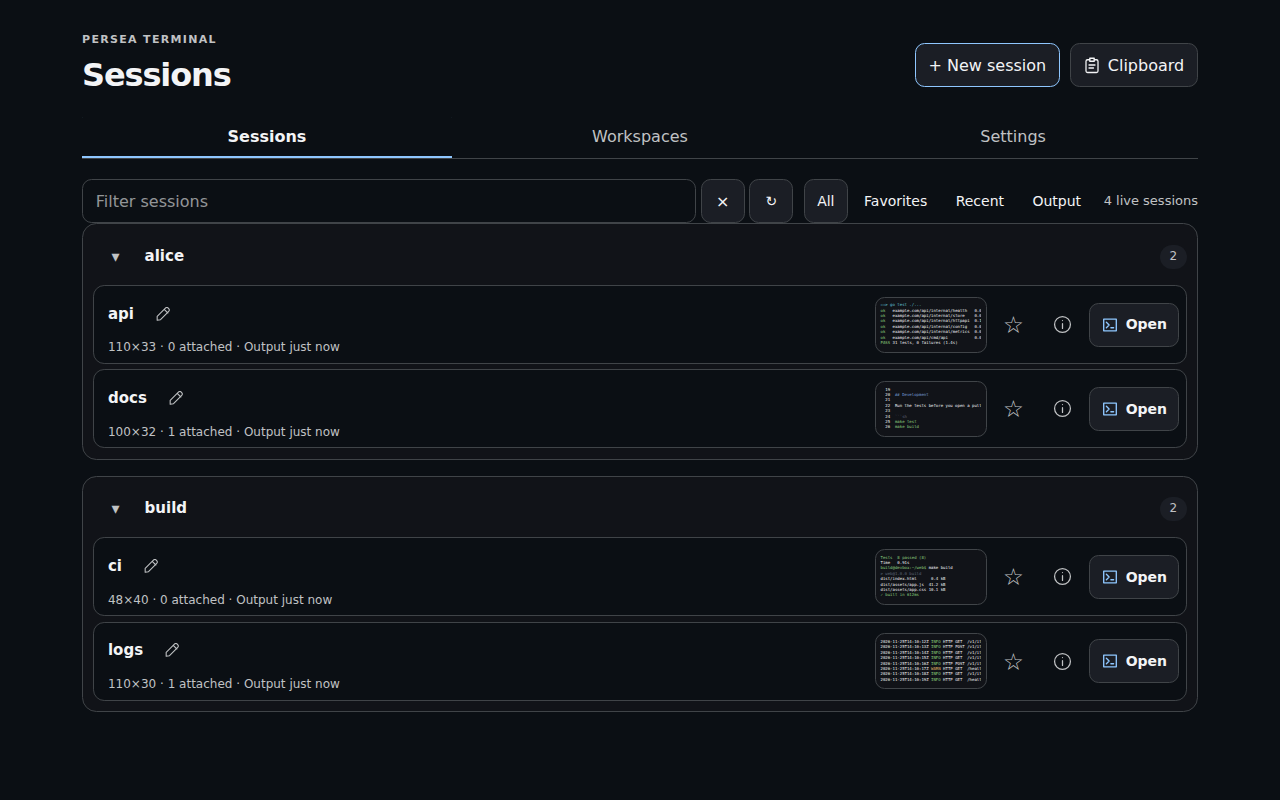
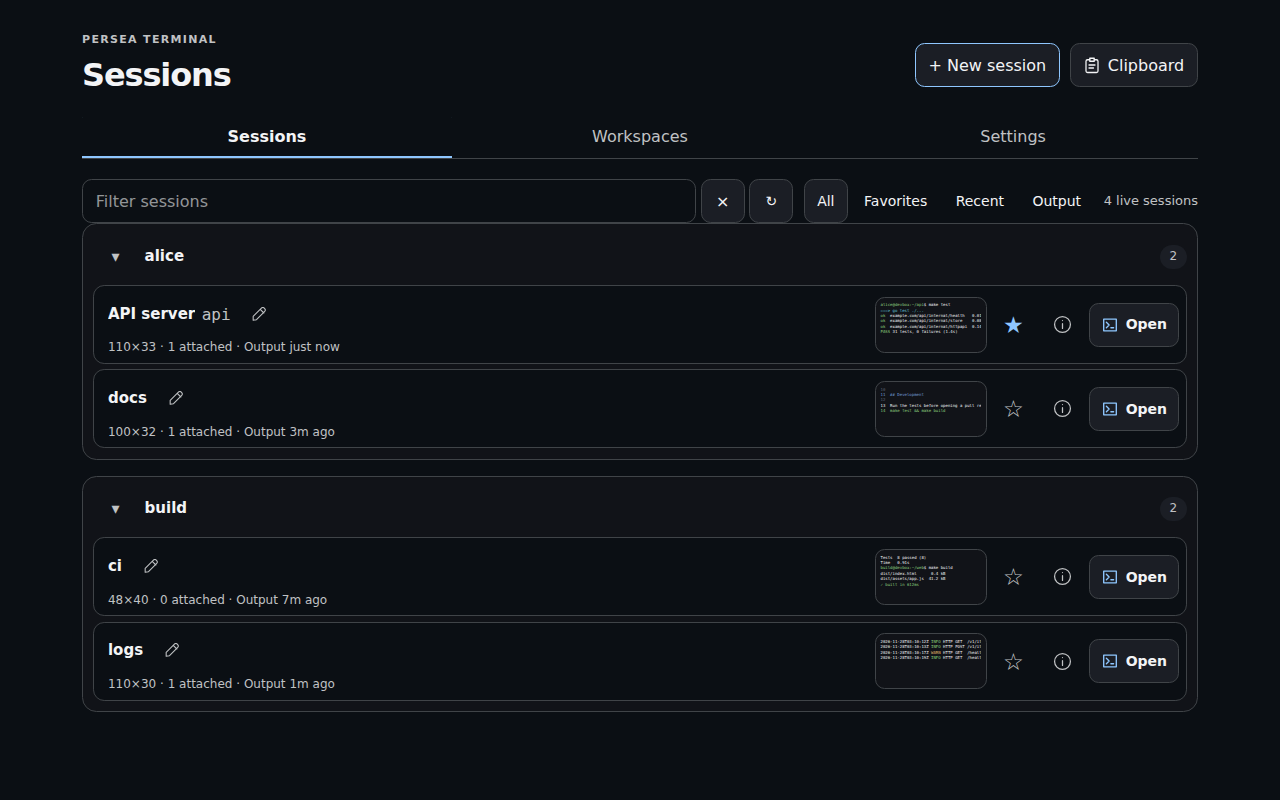
Refresh documentation, architecture diagram, and screenshots

diff --git a/README.md b/README.md
@@ -6,23 +6,39 @@ Run Persea Terminal on your Linux devbox and reach your shells, editors, builds,
 and coding agents from a laptop, tablet, or phone. Your work stays on the devbox
 when you close the browser or lose your connection.
 
-- **Keep sessions together.** Open multiple terminals in one workspace.
-- **Pick up where you left off.** Reconnect restores retained output; uncertain input is never replayed.
-- **Use your existing workflow.** Native tmux clients can stay attached. Opening a browser does not resize your session.
-- **Work from a phone.** Touch controls, a text composer, and a terminal key row keep common actions close.
+- **Keep sessions together.** Arrange up to six terminals in saved multi-pane [workspaces](ui/workspaces.md) with starter layout presets, visual editing, pane maximize, and quick switching.
+- **Pick up where you left off.** Reconnect restores retained output over compressed incremental catch-up; uncertain input is never replayed.
+- **Use your existing workflow.** Native tmux clients can stay attached. Opening a browser or adjusting workspace panes never resizes your session; geometry refits happen only on explicit request.
+- **Share text and images across devices.** A built-in [shared clipboard](ui/clipboard.md) supports direct device paste, expiring text and image clips, OSC 52 copies, and composer image staging (`Cmd/Ctrl+V` or drag and drop).
+- **Work from a phone.** Touch controls, a text composer with image attachments, a customizable [terminal key bar](ui/KEYBOARD_CONTROLS.md), and eight themes keep common actions close.
 
 <img src="docs/images/workspace-desktop.png" alt="A workspace with three terminals side by side: a shell, a log tail, and an editor" width="100%">
 
 <table>
   <tr>
-    <td width="62%"><img src="docs/images/dashboard-desktop.png" alt="The dashboard listing tmux sessions for two Unix users, alice and build, with output previews and Open buttons"></td>
-    <td width="38%"><img src="docs/images/terminal-phone.png" alt="A tmux session on a phone, with the text composer open below the terminal"></td>
+    <td width="62%"><img src="docs/images/dashboard-desktop.png" alt="The dashboard listing tmux sessions for two Unix users, alice and build, with favorites, aliases, ANSI output previews, and Open buttons"></td>
+    <td width="38%"><img src="docs/images/terminal-phone.png" alt="A tmux session on a phone with the text composer, image-attachment button, and terminal key toggle open below the terminal"></td>
   </tr>
   <tr>
     <td align="center">Sessions for each configured Unix user</td>
     <td align="center">The same sessions from a phone</td>
   </tr>
 </table>
+
+<details>
+<summary>More views: saved Workspaces and shared Clipboard</summary>
+<br>
+<table>
+  <tr>
+    <td width="50%"><img src="docs/images/workspaces-dashboard.png" alt="The Workspaces tab showing saved multi-pane workspaces with miniature layout diagrams and the multi-session builder"></td>
+    <td width="50%"><img src="docs/images/clipboard-desktop.png" alt="The shared Clipboard dialog over a live terminal, showing direct device paste and shared image and text items with countdowns"></td>
+  </tr>
+  <tr>
+    <td align="center">Saved workspaces and layout builder</td>
+    <td align="center">Shared cross-device text and image clipboard</td>
+  </tr>
+</table>
+</details>
 
 ## How it works
 
@@ -35,46 +51,45 @@ flowchart LR
             phone["Phone browser"]
         end
 
-        subgraph devbox["Linux devbox"]
-            serve["Tailscale Service"]
-            terminal["Persea Terminal<br/>web service"]
-            serve <--> terminal
+        subgraph devbox["Linux devbox · no TCP listener"]
+            sidecar["Tailscale Service sidecar"]
+            front["Persea Terminal front door"]
+            sidecar <-->|AF_UNIX, SO_PEERCRED| front
 
             subgraph alice["Unix user: alice"]
-                brokerA["Broker"]
+                brokerA["Realm broker"]
                 tmuxA["tmux sessions"]
-                brokerA <--> tmuxA
+                brokerA <-->|tmux control mode, journal| tmuxA
             end
-            subgraph bob["Unix user: bob"]
-                brokerB["Broker"]
+
+            subgraph build["Unix user: build"]
+                brokerB["Realm broker"]
                 tmuxB["tmux sessions"]
-                brokerB <--> tmuxB
+                brokerB <-->|tmux control mode, journal| tmuxB
             end
-            terminal <--> brokerA
-            terminal <--> brokerB
+
+            front <-->|AF_UNIX| brokerA
+            front <-->|AF_UNIX| brokerB
         end
 
-        devices <-->|HTTPS<br/>tailnet policy| serve
+        devices <-->|HTTPS, tailnet policy| sidecar
     end
 ```
 
 Connect your devices to Tailscale and open the terminal's Service URL.
 [Tailnet access rules](https://tailscale.com/kb/1552/tailscale-services) determine
-which devices can reach it; Persea Terminal also checks the configured Tailscale
-login. The deployment runs a dedicated Tailscale identity on the devbox and
-forwards requests to Persea Terminal over a local Unix socket.
+which devices can reach it; Persea Terminal also verifies the configured Tailscale
+login. The deployment runs a dedicated `tailscaled` Service sidecar on the devbox
+and forwards requests to the front door over a local Unix socket (`SO_PEERCRED`),
+with no TCP listener. Each configured Linux user account (called a *realm*) runs
+its own isolated broker under that user's Unix UID and communicates with explicitly
+configured tmux servers over tmux control mode (`-C`) and a typed per-session journal.
 
 **Access is private and single-operator:** one configured person can access all
-configured Linux user accounts (called *realms*). Only explicitly configured tmux
-servers are available. See the [security model](SECURITY.md).
-
-Hidden attachment copies restored after a reboot are removed when the broker
-first sees them. Copies restored later are removed during inventory. A living
-broker's attachment remains protected even while that broker is suspended.
-Internal attachments are omitted from inventory. Large session lists are bounded
-by both session count and reply size, with incomplete lists marked as such.
-An open page keeps trying when its server is unavailable or its session list is
-incomplete; after fast retries, it checks more slowly while the page is visible.
+configured realms. Only explicitly configured tmux servers are available. See the
+[security model](SECURITY.md), the [deployment guide](deploy/README.md), and
+[terminal reconstruction](docs/terminal-reconstruction.md) for isolation,
+lifecycle, and capture details.
 
 ## Get started
 
@@ -103,7 +118,7 @@ agent to work through it with you:
    through your tailnet policy. Persea Terminal also checks your configured login.
 4. **Open your terminals.** Visit the Service's HTTPS URL from an allowed device.
    In the dashboard, choose a configured Unix user and open an existing tmux
-   session or create a new one.
+   session, create a new one, or open a saved workspace.
 
 Keep your host manifest and credentials outside the repository.
 
@@ -127,6 +142,12 @@ The launcher installs dependencies, builds the application, and prints a local
 `URL=` to open. It creates an isolated tmux session for the demo. Use the printed
 `STOP_COMMAND=` when finished; `TMUX_ATTACH=` lets you return to that session.
 This demo is local to the devbox; follow Quick Start above for other devices.
+
+## Documentation
+
+- **User interface:** [Dashboard and session discovery](ui/dashboard.md) · [Workspaces](ui/workspaces.md) · [Shared clipboard](ui/clipboard.md) · [Scrollback](ui/scrollback.md) · [Keyboard controls](ui/KEYBOARD_CONTROLS.md)
+- **Operations and security:** [Deployment guide](deploy/README.md) · [Security model](SECURITY.md)
+- **Internals and protocols:** [Terminal reconstruction](docs/terminal-reconstruction.md) · [Attachment wire protocol](internal/attachmentwire/README.md) · [Clipboard storage and API](internal/frontdoor/clipboard.md)
 
 ## Help and contributing
 

diff --git a/ui/workspaces.md b/ui/workspaces.md
@@ -1,0 +1,116 @@
+# Workspaces
+
+Workspaces group up to six tmux sessions into a single desktop browser tab using
+nested row and column splits. Saved workspaces persist on the front door and are
+available across an operator's desktop browsers.
+
+![A three-pane workspace showing a shell, a log tail, and documentation side by side](../docs/images/workspace-desktop.png)
+
+## Saved model and storage
+
+A saved workspace stores only its display name and a recursive split tree whose
+leaves name sessions by selector (`realm`, `server`, `name`), an optional
+`alias_hint`, and an `on_missing` policy (`offer`, `create`, or `skip`). It
+never stores capability handles, tmux session IDs, incarnation keys, or terminal
+geometry.
+
+- **Store path:** `/var/lib/persea-terminal/workspaces.json` (rendered as
+  `workspace_store_path` alongside the front's other owner-only `0700` stores).
+- **Bounds:** up to 64 saved workspaces per operator, 1 to 6 panes per
+  workspace, 2 to 4 children per split, maximum split depth 3, unique leaves per
+  workspace, and 256 KiB total store size.
+- **Validation and concurrency:** malformed trees or over-cap writes fail closed
+  as a whole. Updates and deletions use ETag / `If-Match` revision checks; a
+  `409` conflict preserves the operator's draft with reload/retry choices.
+
+## Creating and managing workspaces
+
+![The dashboard Workspaces tab showing saved miniature layout diagrams and the multi-session builder](../docs/images/workspaces-dashboard.png)
+
+Each saved workspace card on the dashboard **Workspaces** tab renders a
+miniature layout diagram, its pane count, and passive availability exceptions
+derived from the already-loaded session inventory (without extra polling).
+
+- **Multi-session builder (desktop):** choose a name, pick a primary session,
+  optionally check up to five additional sessions, select a starter layout
+  preset (such as **Main + stack**, **Side by side**, or grid arrangements),
+  and preview the labeled layout diagram before saving. After creation, an
+  inline **Open** link opens the new workspace directly.
+- **Manage disclosure:** reveals member session details, inline rename, desktop
+  duplication, and deletion. Deletion requires confirming the workspace name and
+  removes only the saved layout — it never closes any tmux session.
+- **Draft resilience:** in-progress workspace drafts survive background,
+  foreground, and manual inventory refreshes as well as `409` and `507` errors.
+
+## Runtime behavior and invariants
+
+Opening a workspace navigates to `/workspace?engine=unified-dev#name=<name>` and
+shows a landing card first. Navigating to a workspace URL never auto-attaches;
+the operator starts attachments with a trusted **Open workspace** click.
+
+- **Presentation-only layout:** split weights are CSS flex proportions only.
+  Dragging a divider, nudging a split, maximizing a pane, or resizing the
+  browser window never emits `RESIZE_REQUEST` to tmux. Each cell refits only its
+  own font presentation.
+- **Maximize and Restore grid:** **Maximize** expands the active pane to fill
+  the workspace grid in CSS while keeping sibling panes attached in the
+  background (no disconnect, reconnect, or tmux resize). Click **Restore grid**,
+  press `Alt+Shift+F6` then `Z`, or select another pane in the header picker to
+  exit maximize cleanly.
+- **Header chrome and pane focus:** the single workspace header holds the
+  workspace name, pane picker pills (`1`–`6`), **Maximize**, **Edit workspace**,
+  and **Dashboard**. Pane headers omit workspace-level controls and lock
+  dividers during normal operation so terminal space stays uncluttered. A
+  designated-pane focus veto ensures background reconnects in sibling panes
+  never steal keyboard focus from the active pane.
+- **Keyboard pane picker:** press `Alt+Shift+F6` from a terminal pane to focus
+  the header pane picker. Use `←`/`→`/`Home`/`End` to move across pills, `1`–`6`
+  to activate a pane directly, `Z` to toggle maximize on the focused pill, and
+  `Escape` to return focus to the designated pane.
+- **Single-flight inventory and honest pane states:** all panes in a workspace
+  share one single-flight `/api/inventory` fetch at a time. Every cell renders
+  an explicit visible state (live, connecting, missing with create/skip,
+  ambiguous, blocked projection, reconnecting/reattaching, displaced/takeover,
+  rate-limited) so a workspace never shows a silent blank pane.
+
+## Visual layout editor and switched panes
+
+Clicking **Edit workspace** switches the grid into layout-edit mode:
+
+- **Unlocked layout controls:** add panes (up to the 6-pane cap), split or
+  unsplit cells, swap or replace sessions, remove panes, drag or nudge dividers,
+  and apply starter presets. Editor tiles show live session labels (current
+  aliases and tmux names) from the latest inventory.
+- **Switched-pane reconciliation:** switching a pane's session through its
+  in-pane identity menu updates only that live pane without mutating the saved
+  workspace. On a saved workspace, a **Save switch** button in the header lets
+  you persist the switched pane back to the saved workspace in one click; inside
+  **Edit workspace**, each switched pane also exposes a **Use current** button.
+  Reconciliation tracks exact `(paneKey, switchedSession)` pairs so consecutive
+  switches or multi-pane edits never overwrite the wrong leaf.
+- **Save guard:** while a save request is in flight, **Cancel** is disabled so
+  an in-flight save cannot race a local discard. If the server reports a
+  revision conflict (`409`), the draft stays intact for review.
+
+## Phone posture
+
+Multi-pane grids are desktop-only (`ui/src/workspace_posture.ts`). On phones,
+the Workspaces tab omits creation and duplication controls, and opening a
+workspace URL displays an honest card listing each member session with an
+individual **Open** link so each session opens cleanly in single-terminal view.
+
+## Verification
+
+Run the workspace unit and browser gates from `ui/`:
+
+```sh
+npm run test:workspace-ux-browser       # Chromium + WebKit UX, editor, presets, Maximize, Save switch, phone posture
+npm run test:workspace-runtime-browser  # multi-pane runtime, single-flight inventory, focus veto, error states
+npm run test:workspace-layout-browser   # split tree rendering, dividers, exhaustive pane-state matrix
+npm run test:browser:workspace          # full workspace CI lane (includes dashboard contract + private-stack refit)
+```
+
+Pure model and URL checks (`workspace_model.test.ts`, `workspace_url.test.ts`,
+`workspace_inventory.test.ts`) run inside `npm run test:unit`; server storage
+and route tests (`internal/frontdoor/workspace_*_test.go`) run inside
+`go test ./...`.

diff --git a/ui/dashboard.md b/ui/dashboard.md
@@ -1,14 +1,19 @@
 # Dashboard and session discovery
 
-The dashboard opens on Sessions. Workspaces and Settings have separate views.
+The dashboard opens on Sessions. [Workspaces](workspaces.md) and Settings have separate views.
 The header has one New session action and the shared Clipboard. New session
 expands a single form above the list: choose the user/server explicitly when
 more than one is available, supply a required tmux name, and optionally supply
-a display alias. Creation uses the selected user's existing creation API. Its
+a display alias. Creation uses the selected user's existing creation API and
+offers an inline **Open** action once created. Its
 returned session ID locates the new session before a separate alias save; a
 failed alias save offers a retry that never repeats creation. A retry refreshes
 the inventory and refuses to bind a different incarnation or duplicate a save
 whose response was lost.
+
+Keyboard navigation on the Sessions tab keeps common actions fast: pressing `/`
+focuses the filter input, `Enter` in the filter opens a sole matching session,
+and `Escape` clears a non-empty filter or closes the New session form.
 
 Every available session has the same terminal icon and Open control. An open
 session follows a normal same-tab link. An adoptable session performs its one
@@ -113,7 +118,9 @@ foreground, and manual refresh as well as 409/507 failures. List request
 generations prevent an older response from undoing a later local mutation.
 Workspace deletion requires a confirmation naming the workspace, then uses the
 existing revision precondition. Deletion removes the saved layout; it does not
-close any terminal session. Phone workspace limitations are unchanged.
+close any terminal session. Phone workspace limitations are unchanged. See
+[Workspaces](workspaces.md) for the workspace runtime, editor, keyboard picker,
+and storage bounds.
 
 Filtering updates the matching count and offers a clear action for no results.
 A failed refresh retains the last good inventory and says when it was read.
@@ -145,8 +152,9 @@ share that capture. Inventory refresh, returning to the window, reopening
 information and enlarging the thumbnail reuse it. Only
 Refresh preview requests another capture. The old image stays visible while a
 refresh is pending or fails. The server may reuse a capture for three seconds.
-The modal shows capture time and dimensions, supports
-Escape and normal focus restoration, and closes when its session disappears.
+The modal shows capture time and dimensions, exposes a direct **Open** action
+for the previewed session, supports Escape and normal focus restoration, and
+closes when its session disappears.
 
 The broker's existing read-only `capture-pane` call includes SGR attributes.
 Plain `rows` remain compatible with older clients; additive `ansi_rows` preserve

diff --git a/deploy/README.md b/deploy/README.md
@@ -138,8 +138,8 @@ and may not live under `/var/lib/persea-terminal`, `/tmp`, or
 `/opt/persea-terminal`. The default is
 deliberately a sibling of the front's state directory, never inside it: the
 front's alias store refuses to start unless `/var/lib/persea-terminal` has
-mode exactly `0700` (its siblings, the operator preferences store
-`preferences.json` and the snippet/clip store `snippets.json`, are rendered
+mode exactly `0700` (its siblings — `preferences.json`, `dashboard-preferences.json`,
+`keyboard-v1.json`, `snippets.json`, and `workspaces.json` — are rendered
 into that same directory and answer 503 rather than start elsewhere), so the
 front unit gains nothing image-related and its
 `StateDirectoryMode` stays `0700` unconditionally (the front only relays
@@ -273,7 +273,7 @@ An installation missing that shape is unsupported and is refused before upgrade.
 Rollback restores the target host snapshot, exact unit inventory/bytes,
 symlinks, and requested lifecycle. Uninstall removes only the current manifest's
 application units and package pointers. Both preserve tmux state, the
-front's durable stores (aliases, preferences, snippets), and activation evidence:
+front's durable stores (aliases, preferences, favorites, keyboard defaults, snippets, workspaces), and activation evidence:
 
 ```sh
 sudo deploy/rollback.sh --activate-local
@@ -458,7 +458,9 @@ malformed values are denied. The hermetic loopback adapter instead requires
 exactly one `http` value.
 
 The protected main-node identity retains its existing routes, Tailscale SSH, and
-`/run/tailscale/tailscaled.sock`. Every sidecar command uses
+`/run/tailscale/tailscaled.sock`. The sidecar unit orders itself
+`After=persea-terminal-front.service network-online.target tailscaled.service`
+so the host daemon settles before the sidecar starts at boot. Every sidecar command uses
 `/run/persea-terminal-tailscale/tailscaled.sock` explicitly; preservation
 readbacks use the main socket explicitly. The sidecar's state and runtime roots
 are private root-owned directories. Tailscale's LocalAPI socket mode is not the

diff --git a/AGENTS.md b/AGENTS.md
@@ -10,10 +10,15 @@ The broker refuses unconfigured servers and does not discover them automatically
 
 - `internal/frontdoor` — HTTP/WebSocket front door. Listens on AF_UNIX only.
 - `internal/broker` — one per realm, runs as that realm's unix user, speaks to tmux.
-- `internal/terminal`, `internal/attachmentwire`, `internal/proto` — the attachment protocol.
+- `internal/terminal`, `internal/attachmentwire`, `internal/proto` — the attachment protocol
+  ([internal/attachmentwire/README.md](internal/attachmentwire/README.md)) and
+  [docs/terminal-reconstruction.md](docs/terminal-reconstruction.md).
 - `ui/src` — TypeScript. `ui/dist` is generated; never edit or commit it.
-- Clipboard behavior and input ownership: [ui/clipboard.md](ui/clipboard.md);
-  retention, storage, and API contract: [internal/frontdoor/clipboard.md](internal/frontdoor/clipboard.md).
+  Component references: [ui/dashboard.md](ui/dashboard.md),
+  [ui/workspaces.md](ui/workspaces.md), [ui/clipboard.md](ui/clipboard.md)
+  (server contract: [internal/frontdoor/clipboard.md](internal/frontdoor/clipboard.md)),
+  [ui/scrollback.md](ui/scrollback.md), and
+  [ui/KEYBOARD_CONTROLS.md](ui/KEYBOARD_CONTROLS.md).
 - `deploy/` — production packaging. See [deploy/README.md](deploy/README.md).
 
 ## Current terminal
@@ -32,7 +37,7 @@ despite historical names.
 ```sh
 go build ./... && go vet ./... && go test ./...     # needs tmux installed
 (cd ui && npm ci && npx --no-install playwright install --with-deps chromium webkit)
-(cd ui && npm test && npm run test:browser)
+(cd ui && npm test && npm run test:browser)         # or npm run test:ci (adds CI reachability check)
 python3 deploy/tests/host-config-test.py
 ```
 

diff --git a/ui/clipboard.md b/ui/clipboard.md
@@ -5,6 +5,8 @@ opens it when no terminal text is selected; a selected range still turns that
 control into Copy. The terminal menu opens Clipboard, Keys, Composer, image
 attachment, session controls, and settings without duplicating raw key buttons.
 
+![Shared Clipboard dialog over a live terminal showing direct device paste and shared text and image items](../docs/images/clipboard-desktop.png)
+
 Action feedback floats below the dialog header without changing the list's
 bounds, scroll height or scroll position. A short fade and 4px translation
 smooth its appearance and dismissal; reduced-motion mode removes animation.
